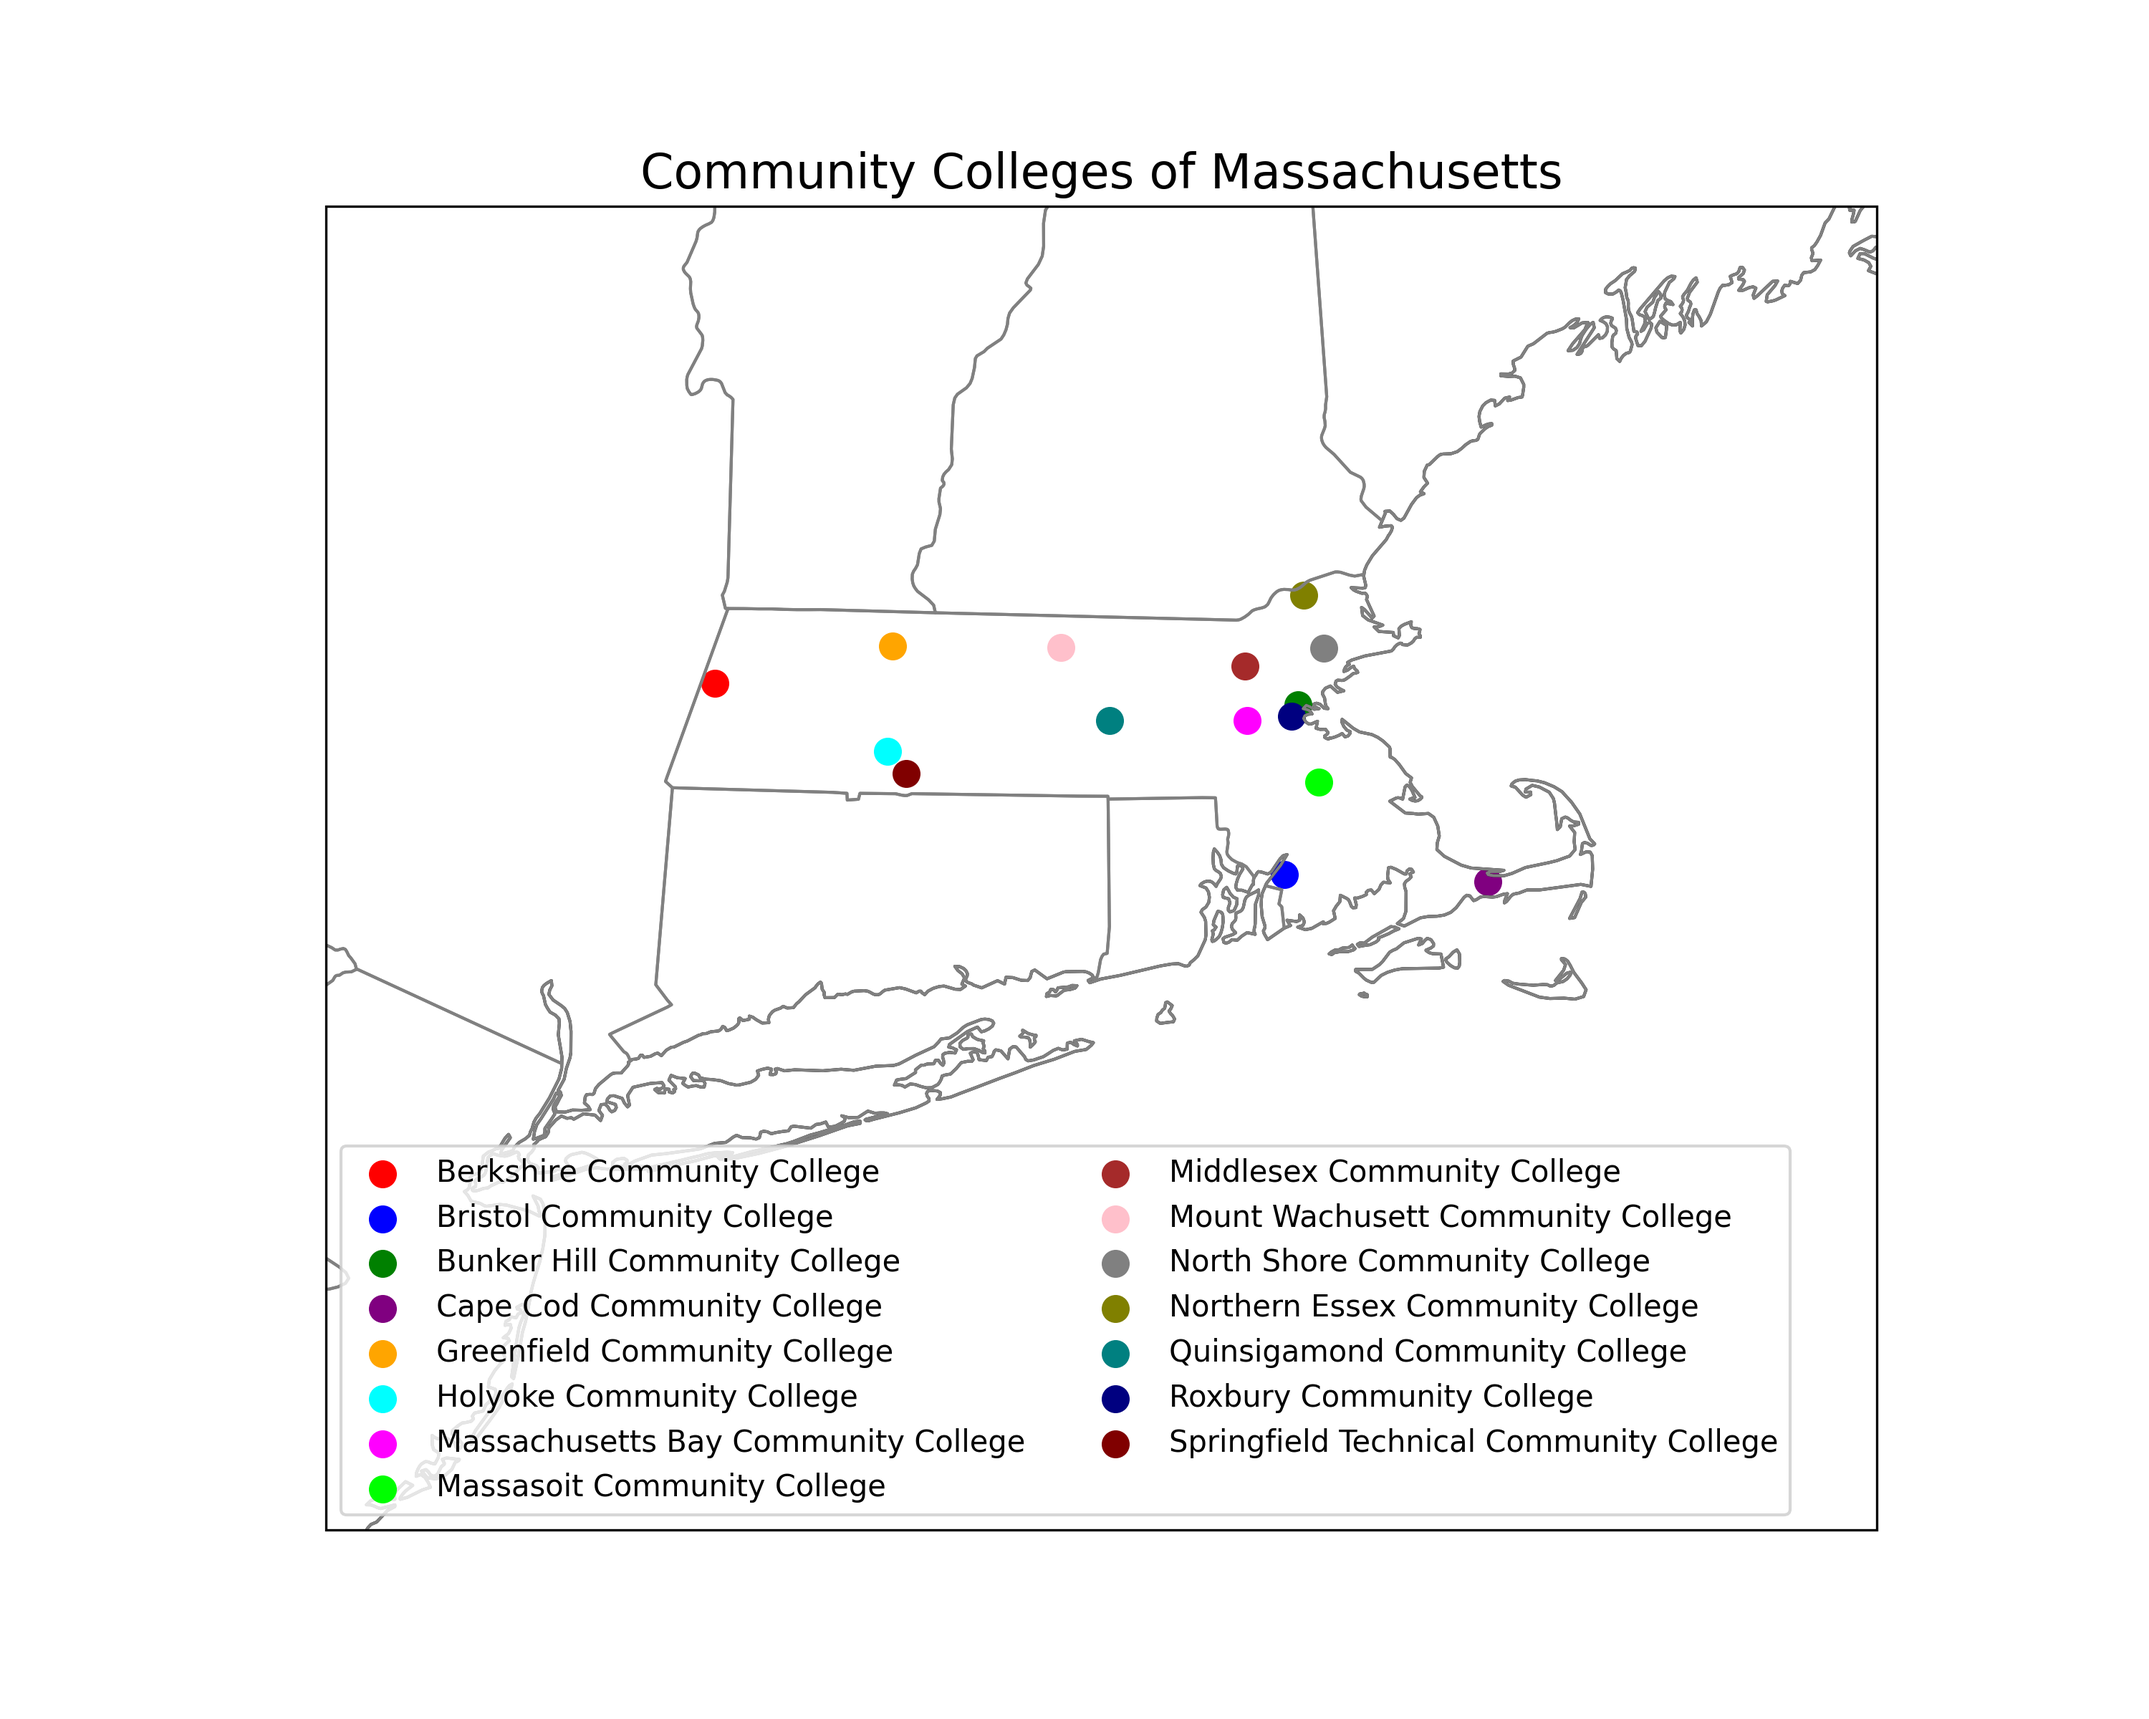
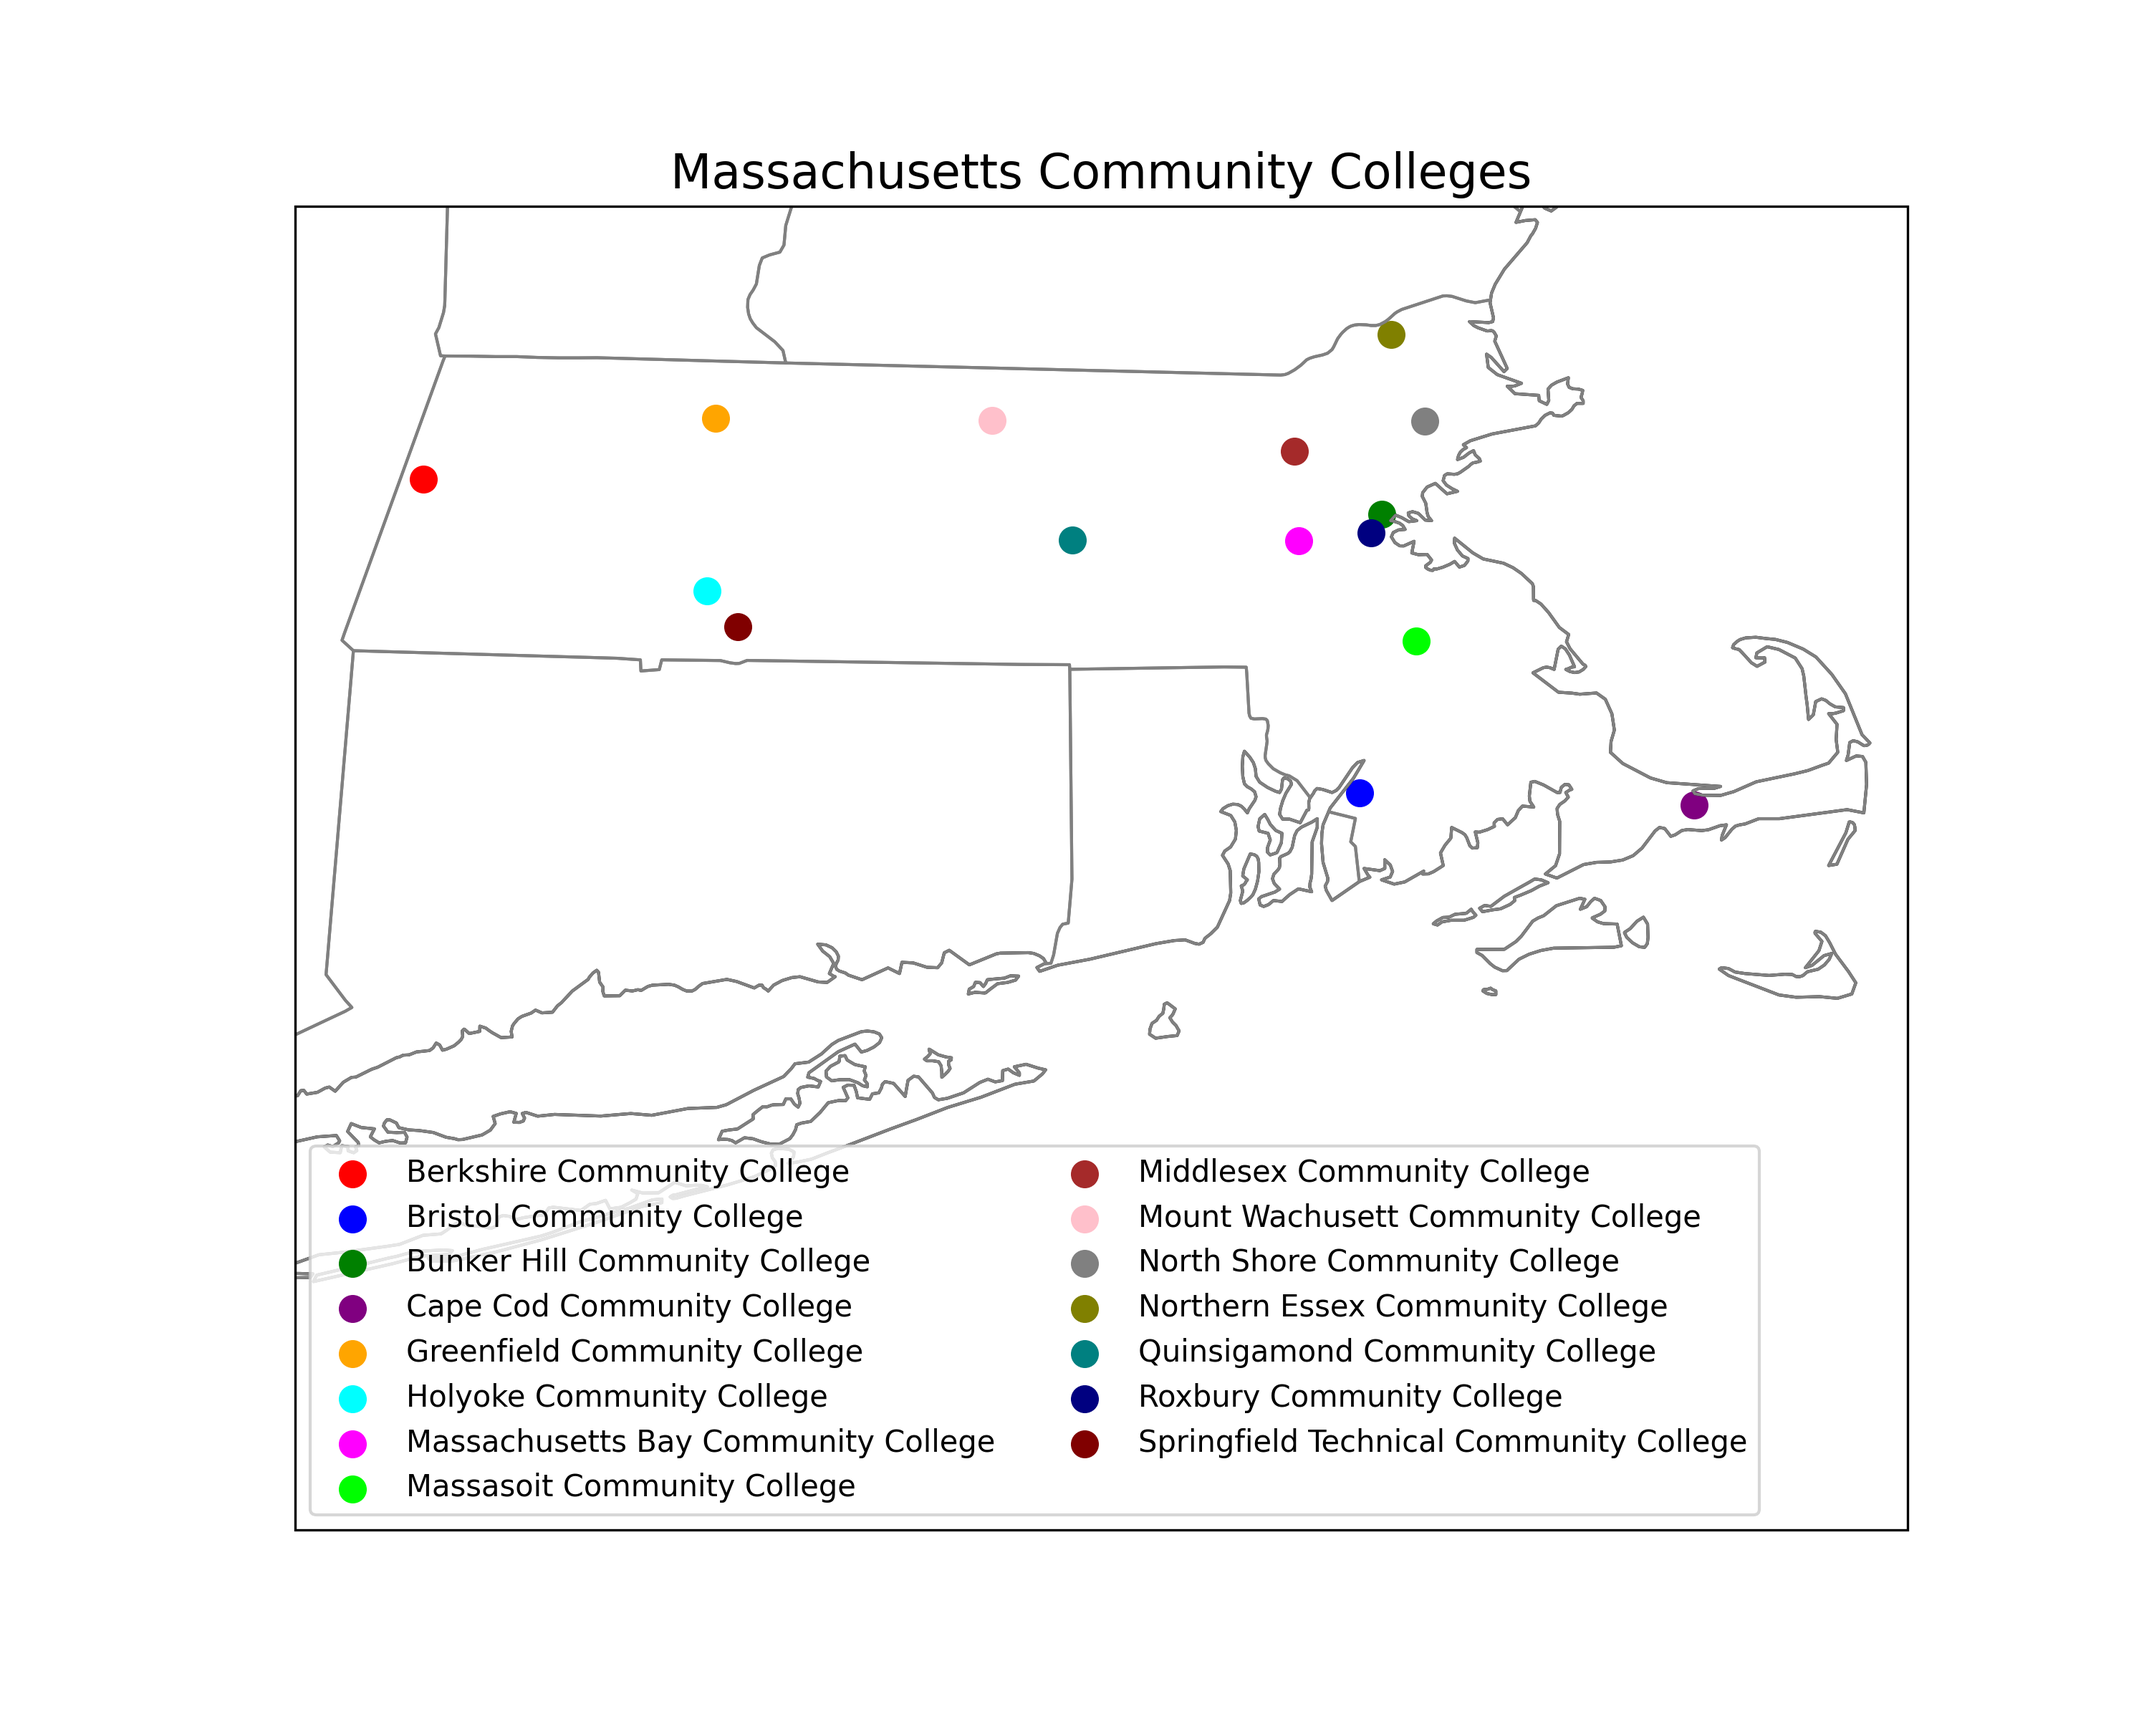
Update bbox and title

diff --git a/main.py b/main.py
@@ -87,7 +87,7 @@ def create_map_from_csv():
     ax = fig.add_subplot(1, 1, 1, projection=ccrs.PlateCarree())
 
     # Add map features for context and aesthetic appeal
-    ax.set_title('Community Colleges of Massachusetts', fontsize=16)
+    ax.set_title('Massachusetts Community Colleges', fontsize=16)
     ax.add_feature(cfeature.COASTLINE)
     ax.add_feature(cfeature.STATES, linestyle='-', edgecolor='gray')
     ax.add_feature(cfeature.BORDERS, linestyle=':')
@@ -123,7 +123,7 @@ def create_map_from_csv():
     min_lon, max_lon = df['longitude'].min(), df['longitude'].max()
     min_lat, max_lat = df['latitude'].min(), df['latitude'].max()
     buffer = 1.5 # Degrees buffer
-    ax.set_extent([min_lon - buffer, max_lon + buffer, min_lat - 2.5, max_lat + buffer],
+    ax.set_extent([min_lon - .3, max_lon + .5, min_lat - 1.7, max_lat + 0.3],
                   crs=ccrs.PlateCarree())
 
        # Create the legend and place it at the bottom right
